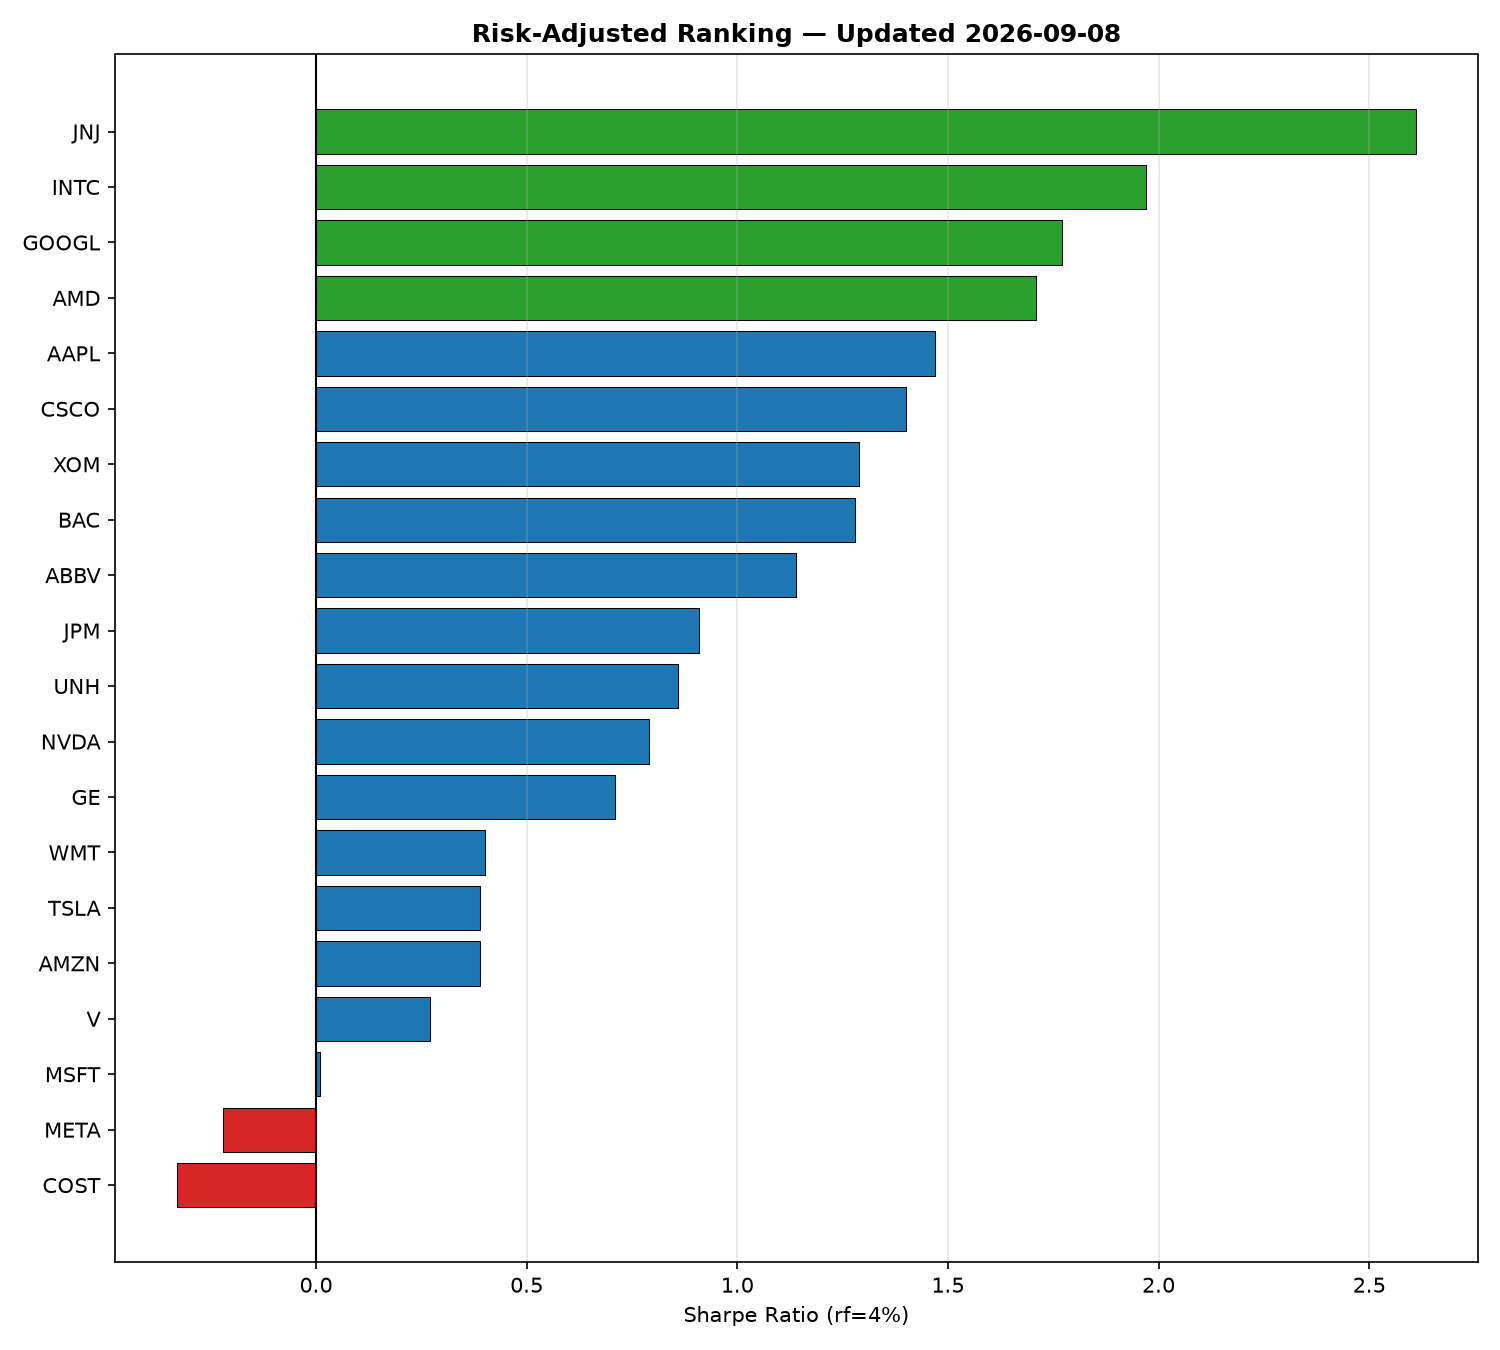
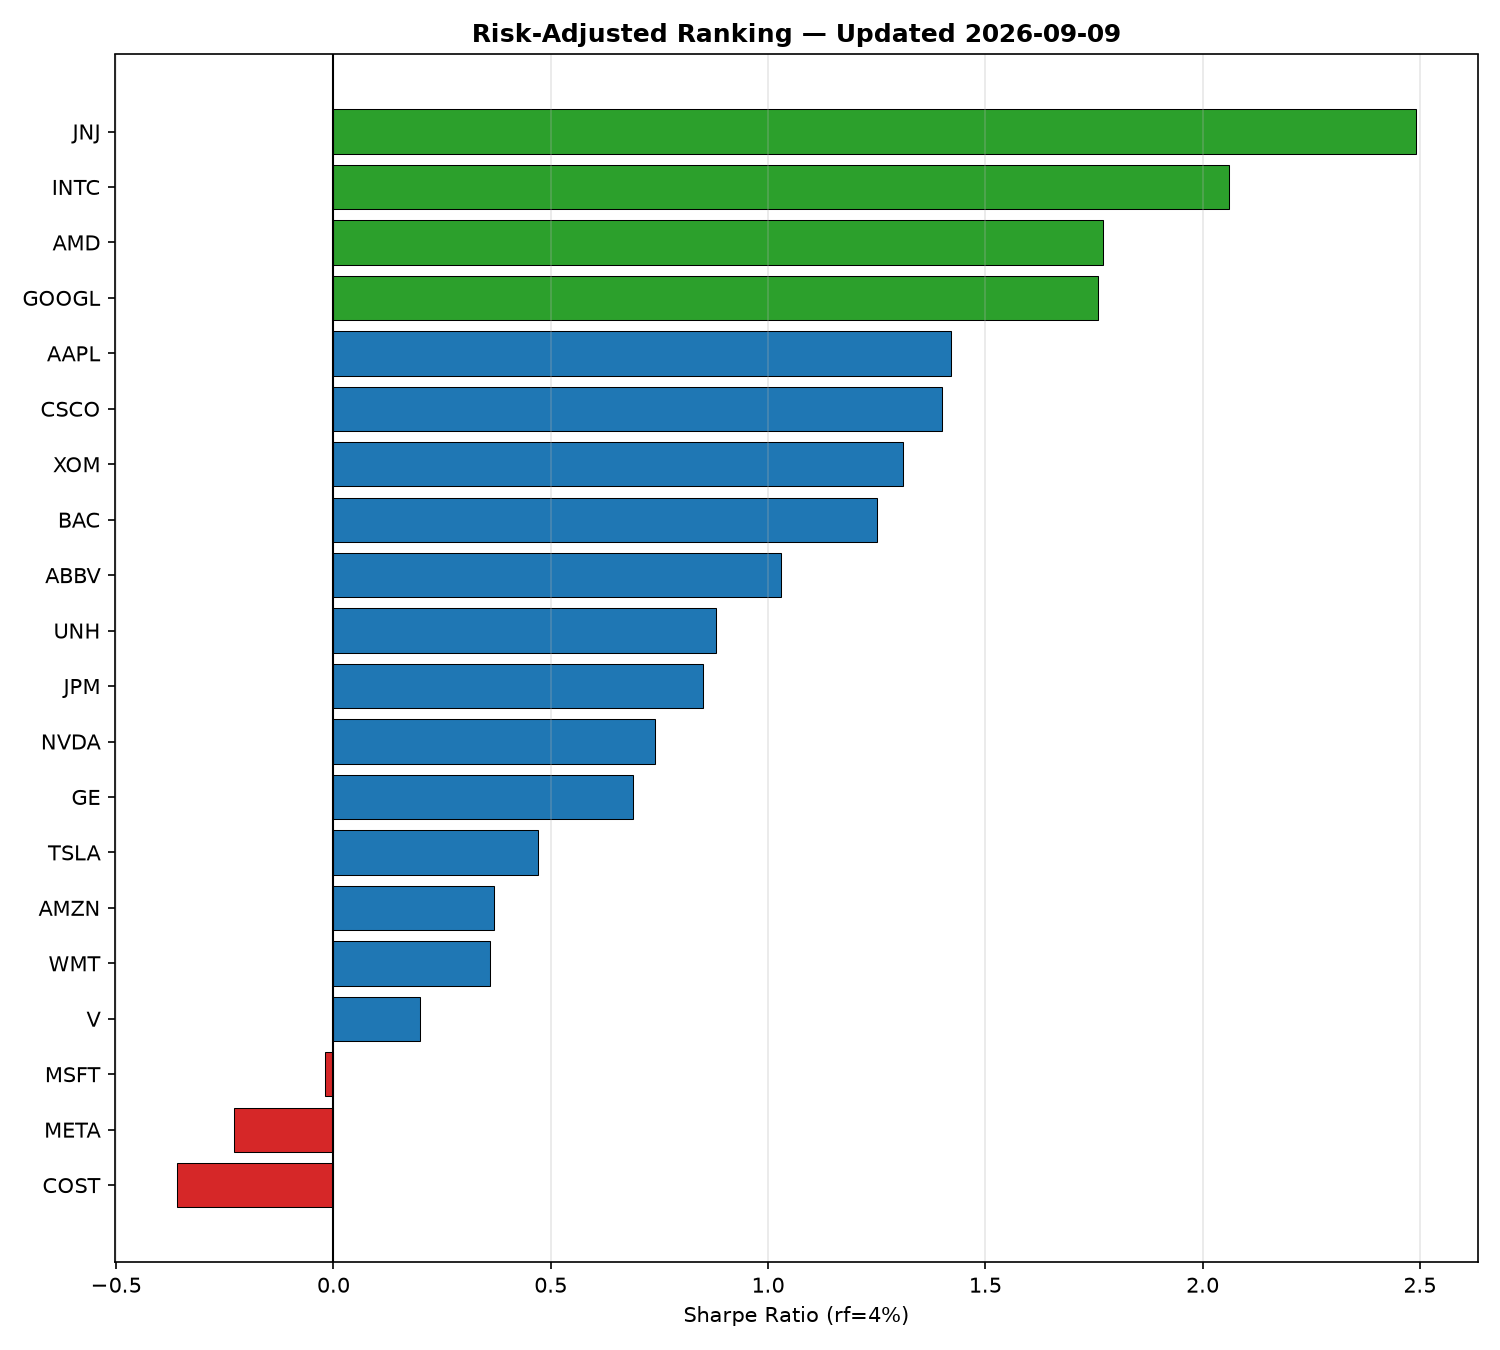
Automated daily update: prices, metrics, and charts

diff --git a/SNAPSHOT.md b/SNAPSHOT.md
@@ -1,9 +1,9 @@
-# Daily Risk Snapshot — 2026-09-04
+# Daily Risk Snapshot — 2026-09-08
 
-**Best mover:** AMD (+4.69%)
-**Worst mover:** TSLA (-5.92%)
-**Top risk-adjusted performer (trailing window):** JNJ (Sharpe 2.61)
+**Best mover:** INTC (+9.05%)
+**Worst mover:** ABBV (-2.99%)
+**Top risk-adjusted performer (trailing window):** JNJ (Sharpe 2.49)
 
-**No new anomaly flags today.**
+**⚠ Newly anomalous today:** INTC — return moved more than 2 std. deviations from its own 20-day trailing mean.
 
 _Auto-generated by `scripts/daily_snapshot.py` via GitHub Actions._
